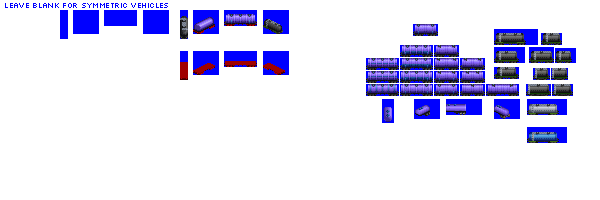
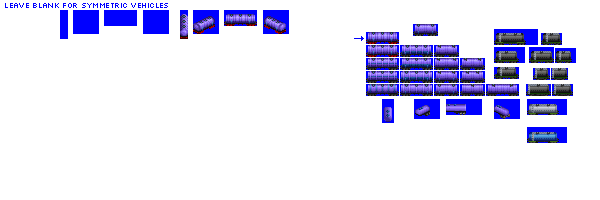
Change: sprites for gen 5C and 6C tank cars

Changed region(s): [[0.3, 0.24, 0.48, 0.42], [0.3, 0.06, 0.48, 0.21], [0.6, 0.15, 0.69, 0.3]]

diff --git a/src/vehicles/tank_cars.py b/src/vehicles/tank_cars.py
@@ -107,7 +107,8 @@ def main():
     consist = TankCarConsist(roster='pony',
                              base_numeric_id=2930,
                              gen=5,
-                             subtype='C')
+                             subtype='C',
+                             sprites_complete=True)
 
     consist.add_unit(type=FreightCar,
                      vehicle_length=8,
@@ -134,7 +135,8 @@ def main():
     consist = TankCarConsist(roster='pony',
                              base_numeric_id=2790,
                              gen=6,
-                             subtype='C')
+                             subtype='C',
+                             sprites_complete=True)
 
     consist.add_unit(type=FreightCar,
                      vehicle_length=8,
